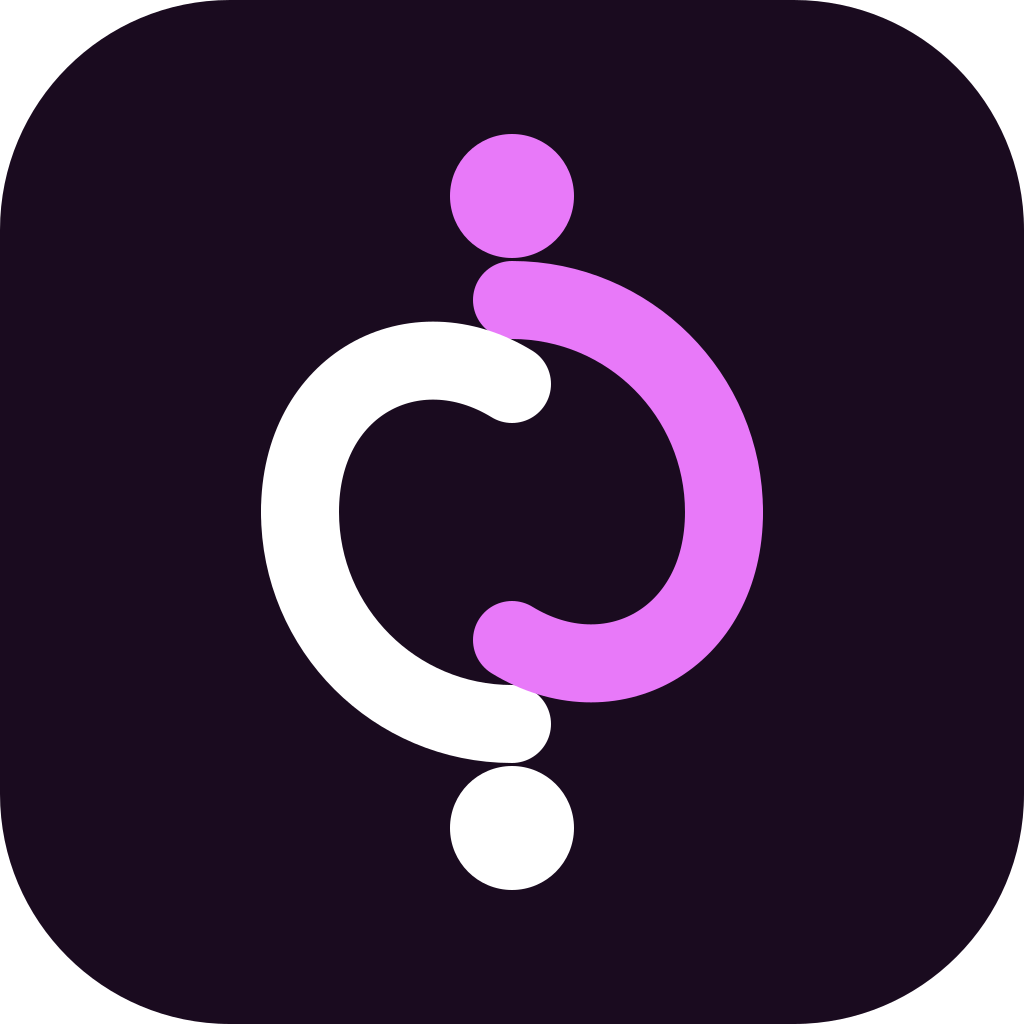
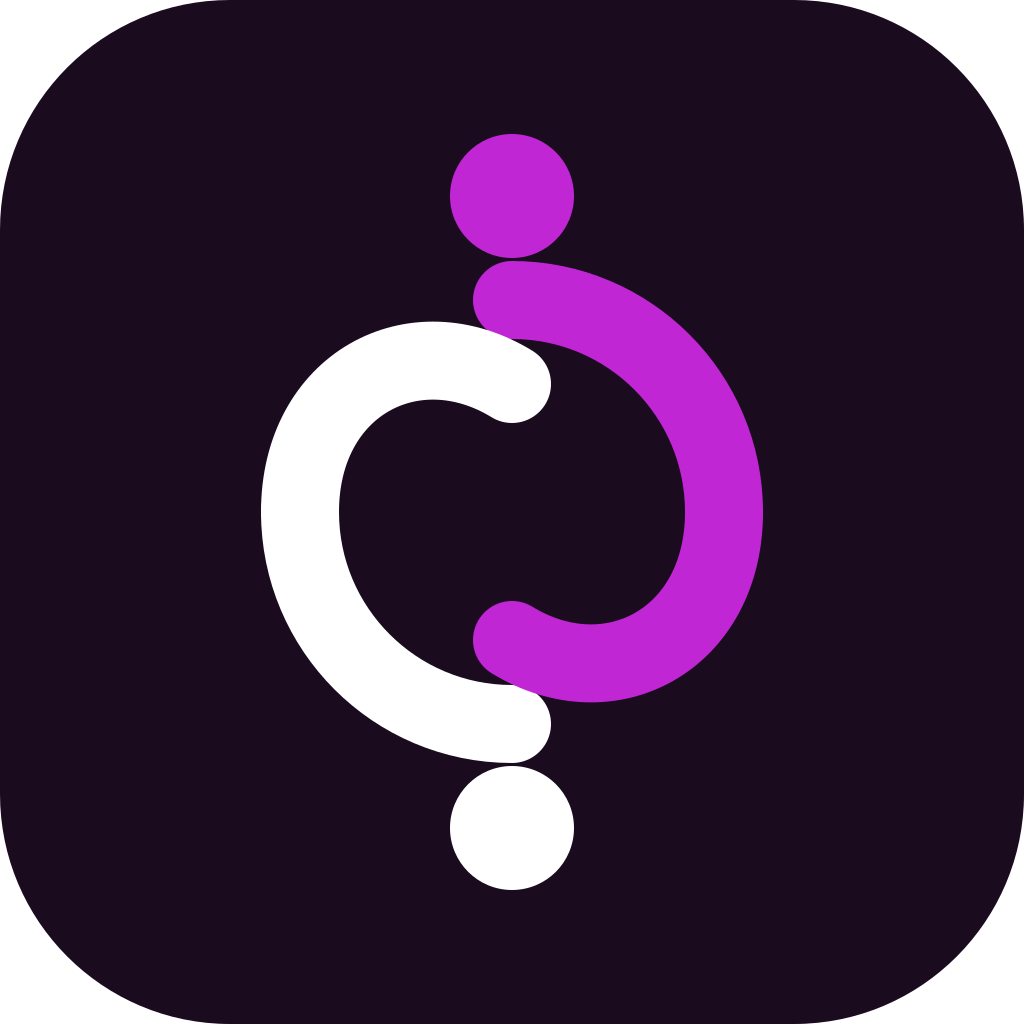
Tanz-App 0.3.0: dunkleres Fuchsia (#c026d3), Startbildschirm ohne Pumpfoil/Foils/GPS, RUNTER ohne Funktion
Jan 21.10.: "das rosa ist zu hell", Startscreen sagt noch Pumpfoil und zeigt Foils, RUNTER oeffnet
Pumpfoil-Einstellungen. Titel + Einstellungsmenue "Dance", Statuszeile nur "bereit" (+ Puffer),
keine Foil-/Alarmzeilen; MENU (Verbinden, Upload) bleibt. Icons neu erzeugt. Build -r ok.
Erste Testsession #17685: manueller Abschnitt Wiener Walzer kam an.

Claude-Session: https://claude.ai/code/session_01SwpsW3PioXLbF9Wo2iJrfq

Changed region(s): [[0.4375, 0.125, 0.75, 0.6875]]

diff --git a/brand-dance/README.md b/brand-dance/README.md
@@ -10,7 +10,7 @@ Arbeitsname: **Dance** (Name auf der Uhr). Ein endgueltiger Name ist offen.
 
 | Rolle | Wert |
 |---|---|
-| Akzent / Icon-Grund | Fuchsia **#e879f9** |
+| Akzent / Icon-Grund | Fuchsia **#c026d3** (21.10.: dunkler als das erste #e879f9, Jan: „zu hell") |
 | Dunkel / Hintergrund | Pflaume **#1a0b1f** |
 | Inhalt | Weiss **#ffffff** |
 
